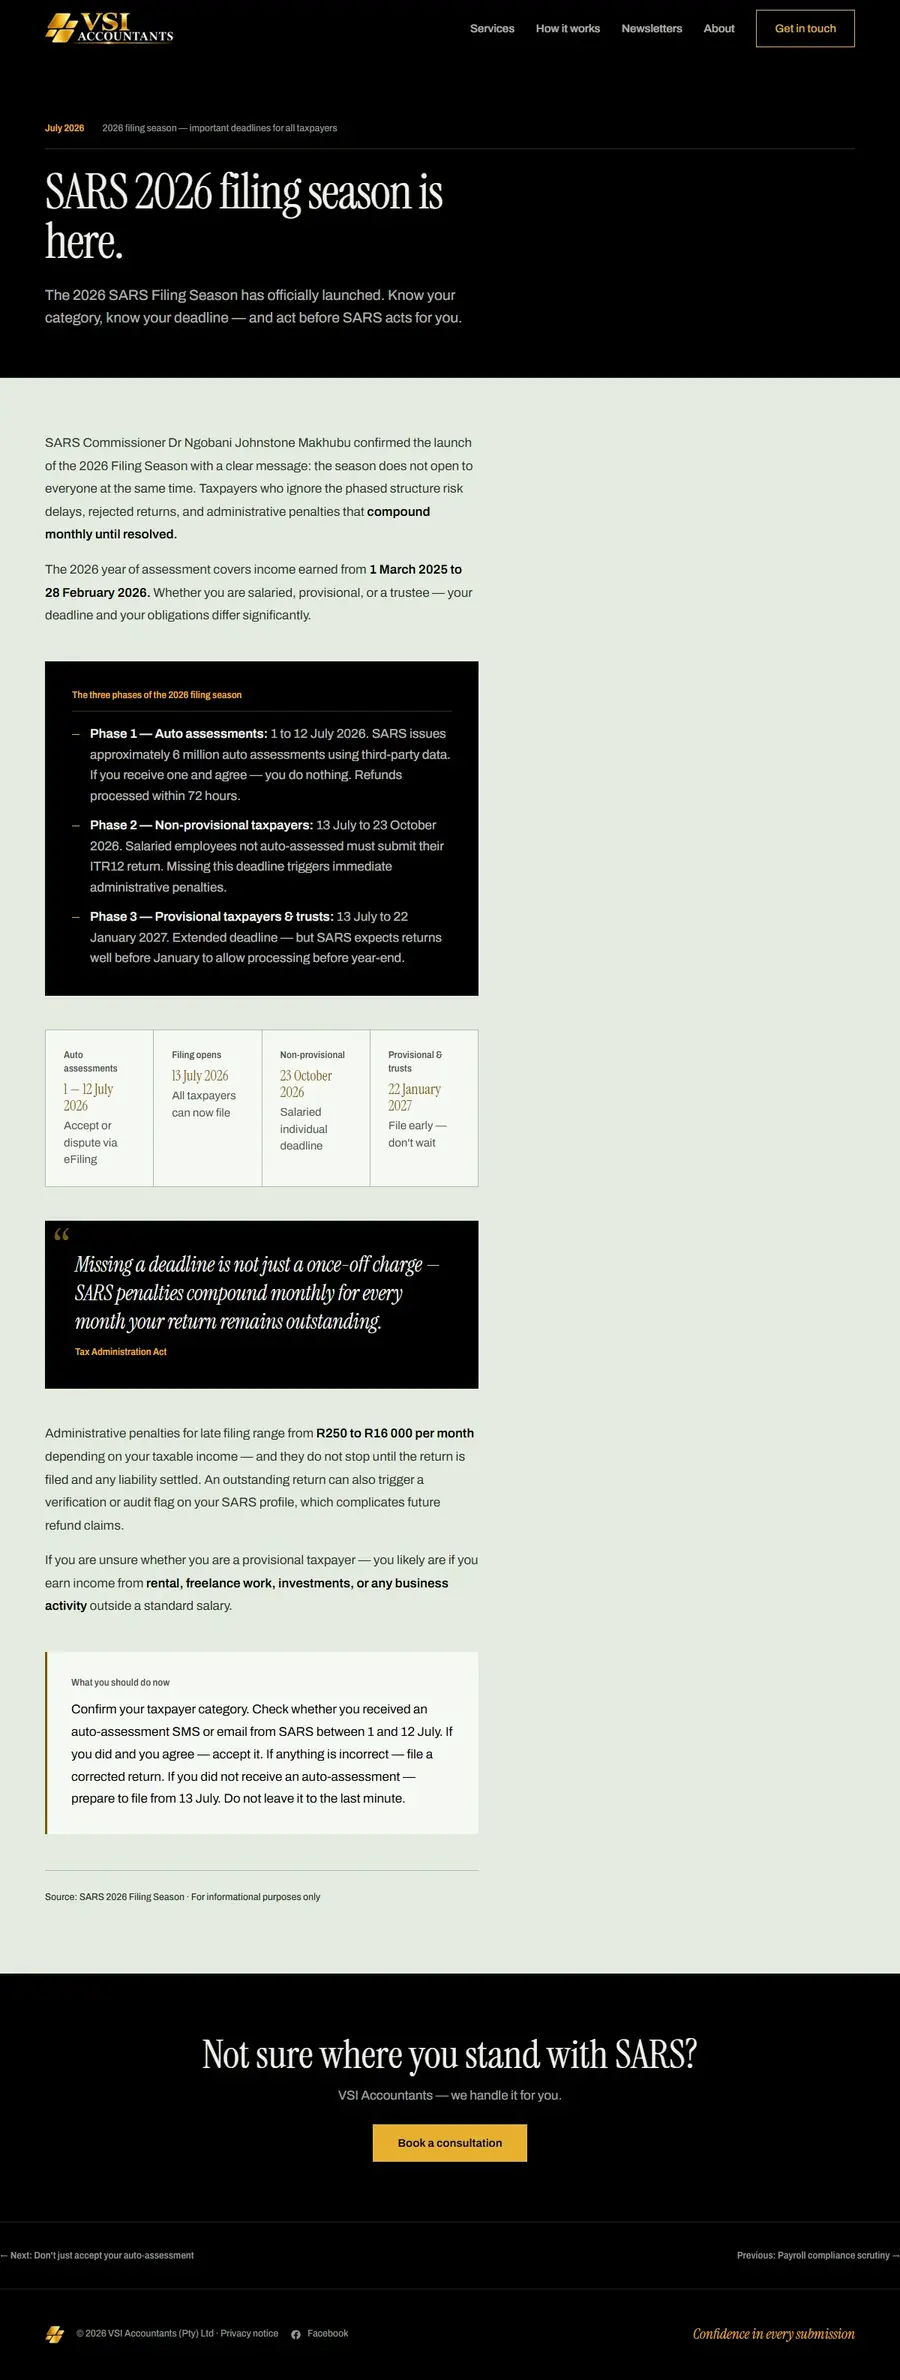
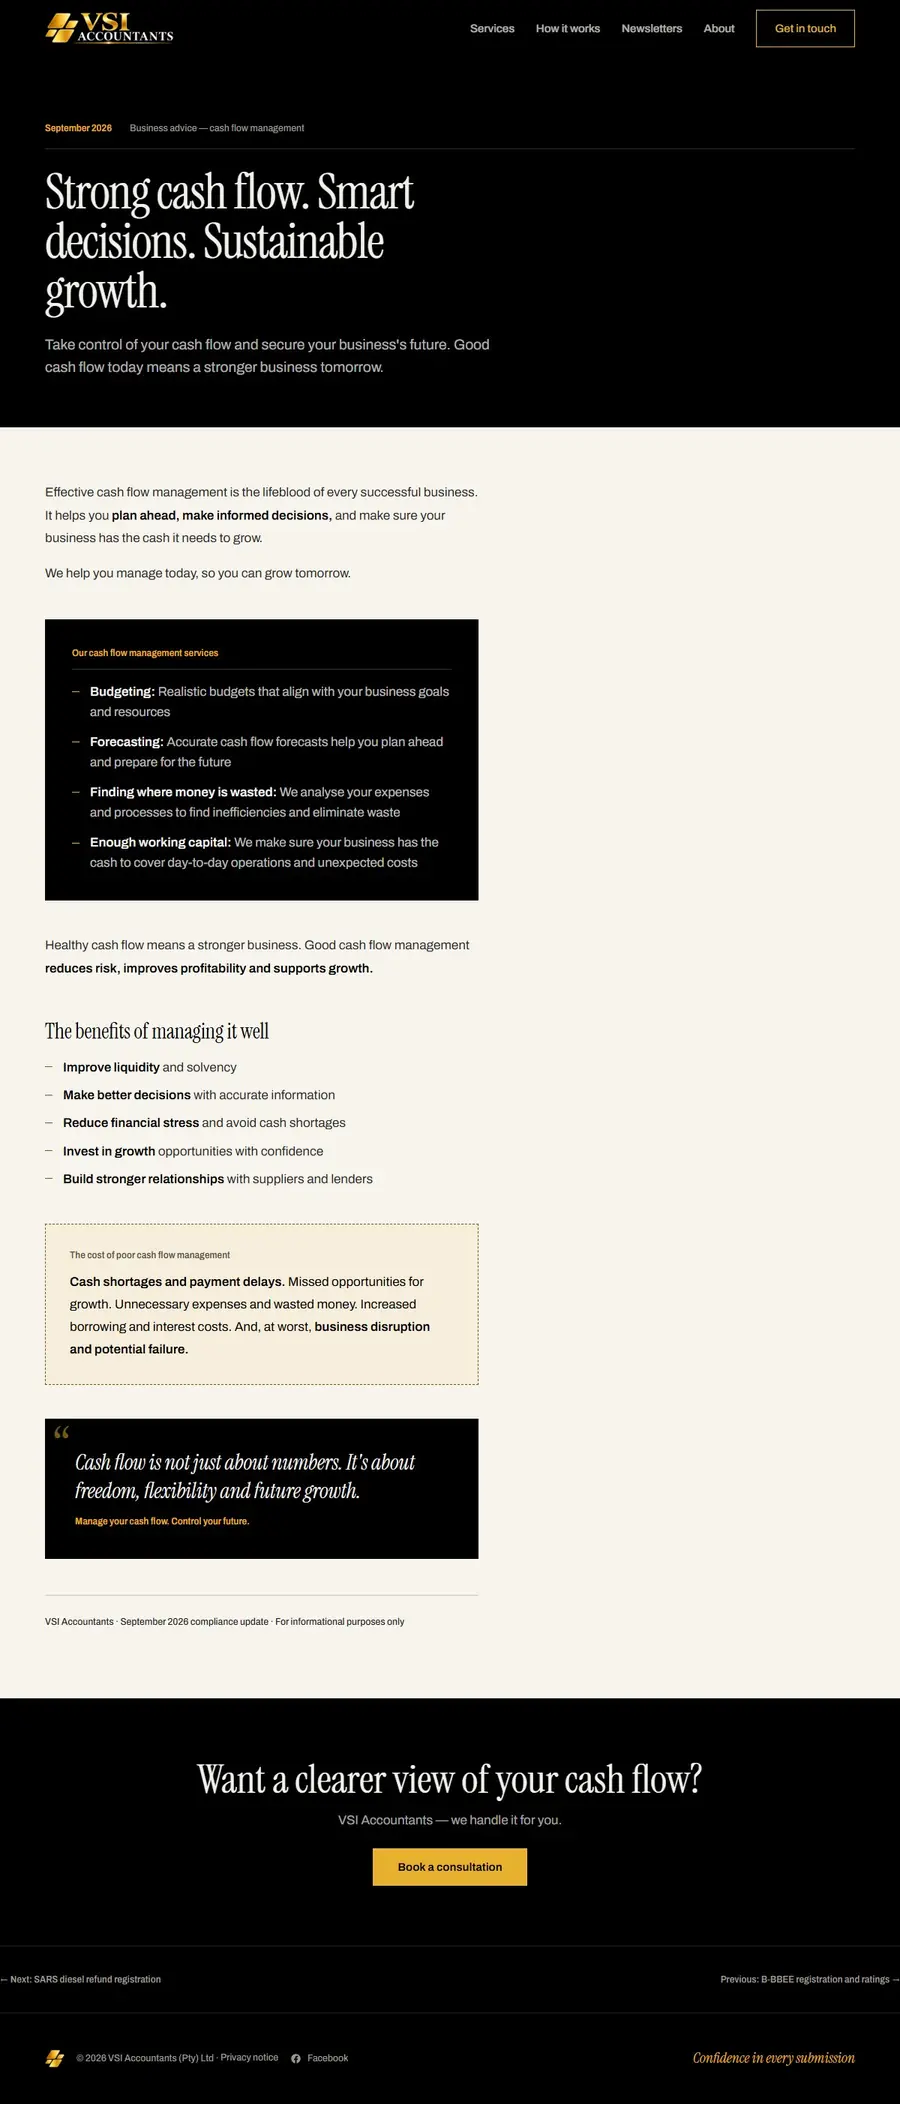
Case study: show VSI's launch version (7 Oct 2026)
VSI's site changed after the September captures: a new hero (the gold
VSI mark over the tower, assembling then flying through), cream sections
instead of green, new August and September newsletters, a new page title,
and it was approved for launch today.

- Re-captured the desktop page (case study + scrolling web browser), the
  phone page (story phone) and the newest newsletter (September, cash flow)
- Story phone search result now uses VSI's current title and meta
  description
- Newsletter described as regular updates, not weekly: VSI publishes about
  two issues a month
- Image width/height attributes match the new captures
- README: VSI's hero photo licence is now confirmed

diff --git a/index.html b/index.html
@@ -158,8 +158,8 @@
             <div class="search__results">
               <div class="result result--top">
                 <div class="result__site"><span class="result__fav">V</span><span><b>VSI Accountants</b><br>vsiaccountants.co.za</span></div>
-                <p class="result__title">VSI Accountants: Confidence in every submission</p>
-                <p class="result__snip">Company registrations, tax advisory, payroll and full SARS compliance, handled properly and on time.</p>
+                <p class="result__title">VSI Accountants | Tax, VAT &amp; Accounting in Pretoria</p>
+                <p class="result__snip">Confidence in every submission. Tax, VAT, payroll, company registrations and SARS compliance for South African businesses, from our office in Shere, Pretoria.</p>
                 <div class="result__chips"><span>Website</span><span>Directions</span><span>Call</span></div>
               </div>
               <div class="result result--ghost"><i></i><i></i><i></i></div>
@@ -376,7 +376,7 @@
       <div class="service__visual" aria-hidden="true">
         <div class="browser browser--scroll">
           <div class="browser__bar"><i></i><i></i><i></i><span class="browser__url">vsiaccountants.co.za</span></div>
-          <div class="browser__view"><img src="assets/img/vsi-site-desktop.webp" alt="" width="1200" height="6510" loading="lazy" decoding="async"></div>
+          <div class="browser__view"><img src="assets/img/vsi-site-desktop.webp" alt="" width="1200" height="7618" loading="lazy" decoding="async"></div>
         </div>
       </div>
     </article>
@@ -424,7 +424,7 @@
         <dl class="work__list">
           <div><dt>Animated content</dt><dd>13 videos: tax explainers and character-led brand films</dd></div>
           <div><dt>Website</dt><dd>Designed, written and built, with a newsletter archive</dd></div>
-          <div><dt>Newsletter</dt><dd>A weekly tax update for the site and Facebook</dd></div>
+          <div><dt>Newsletter</dt><dd>Regular tax updates, published on the site and Facebook</dd></div>
         </dl>
         <button class="video-toggle" type="button" data-video-toggle aria-pressed="false">Pause videos</button>
         <p class="work__hint" aria-hidden="true">Swipe sideways to see the work</p>
@@ -459,14 +459,14 @@
       <figure class="site-card">
         <div class="browser">
           <div class="browser__bar"><i></i><i></i><i></i><span class="browser__url">vsiaccountants.co.za</span></div>
-          <div class="browser__view browser__view--still"><img src="assets/img/vsi-site-desktop.webp" alt="The VSI Accountants home page: a dark hero with the headline “Confidence in every submission.” over a tower photograph" width="1200" height="6510" loading="lazy" decoding="async"></div>
+          <div class="browser__view browser__view--still"><img src="assets/img/vsi-site-desktop.webp" alt="The VSI Accountants home page: the gold VSI mark over a darkened tower photograph, above the headline “Confidence in every submission.”" width="1200" height="7618" loading="lazy" decoding="async"></div>
         </div>
         <figcaption><strong>The website</strong><span><a class="textlink" href="https://www.vsiaccountants.co.za" target="_blank" rel="noopener">Visit vsiaccountants.co.za<span class="vh"> (opens in a new tab)</span></a></span></figcaption>
       </figure>
 
       <figure class="news-card">
-        <div class="news-card__frame"><img src="assets/img/vsi-newsletter.webp" alt="A VSI tax newsletter issue about the 2026 filing season" width="900" height="2112" loading="lazy" decoding="async"></div>
-        <figcaption><strong>The newsletter</strong><span>Weekly, on the site and on Facebook</span></figcaption>
+        <div class="news-card__frame"><img src="assets/img/vsi-newsletter.webp" alt="A VSI newsletter issue from September 2026 on cash flow management" width="900" height="2104" loading="lazy" decoding="async"></div>
+        <figcaption><strong>The newsletter</strong><span>On the site and on Facebook</span></figcaption>
       </figure>
 
       <div class="work__end">

diff --git a/README.md b/README.md
@@ -75,6 +75,6 @@ Everything in this list is a claim a client could hold Atlas to, or a detail onl
 - **FAQ timings**: "one to two weeks" per video and "four to six weeks" per website.
 - **FAQ promises**: "we work across South Africa", "you own everything once paid", and "fixed quote in rand".
 - **Story copy**: "within a minute she has a reply" describes what the automation can do, not a measured result.
-- **VSI hero photo**: the VSI site screenshots include `hero-tower.jpg`, whose licence VSI's own notes list as unconfirmed.
+- **VSI screenshots**: captured from the `vsi-site` project on 7 October 2026 (its launch version). Re-capture them whenever VSI's design changes. The hero photo's licence was confirmed by VSI at launch.
 
 Content deliberately left out: VSI video end cards (they show Jan-Righardt's old mobile number, which VSI's notes say must not be republished) and the "No lecture" line (VSI rejected that phrasing in September 2026).
